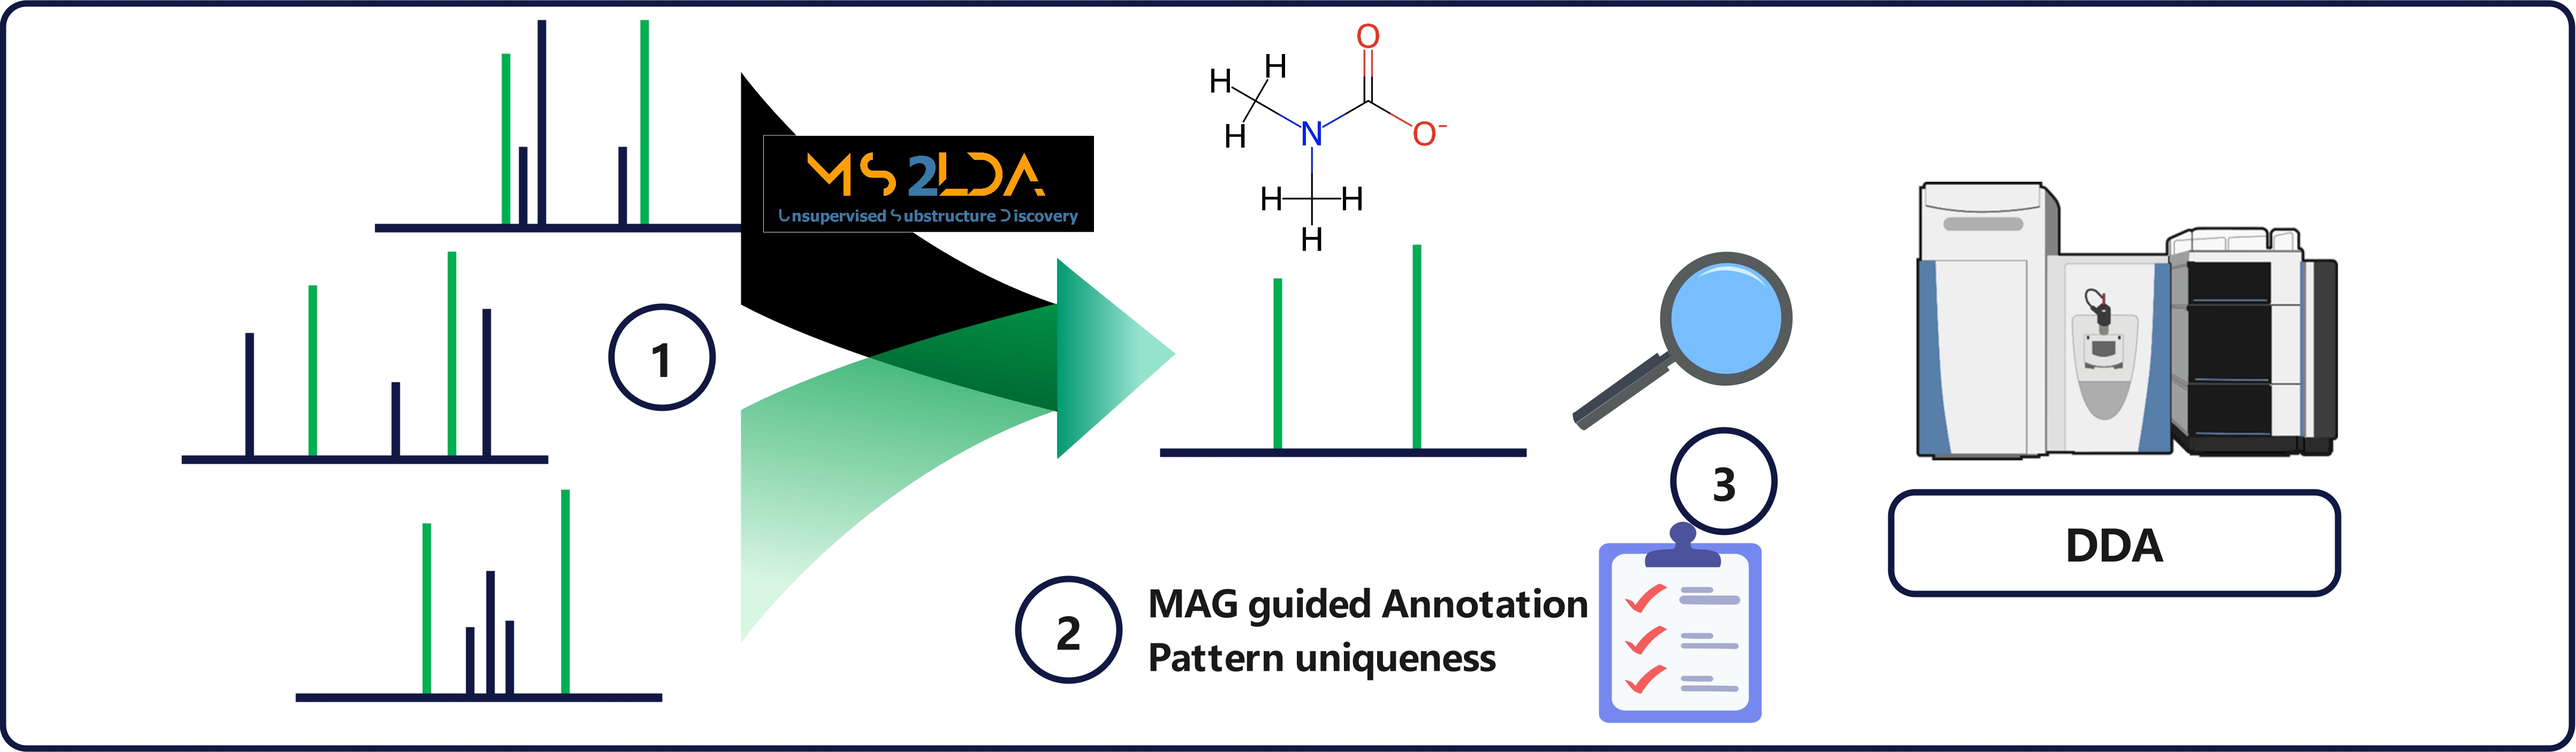
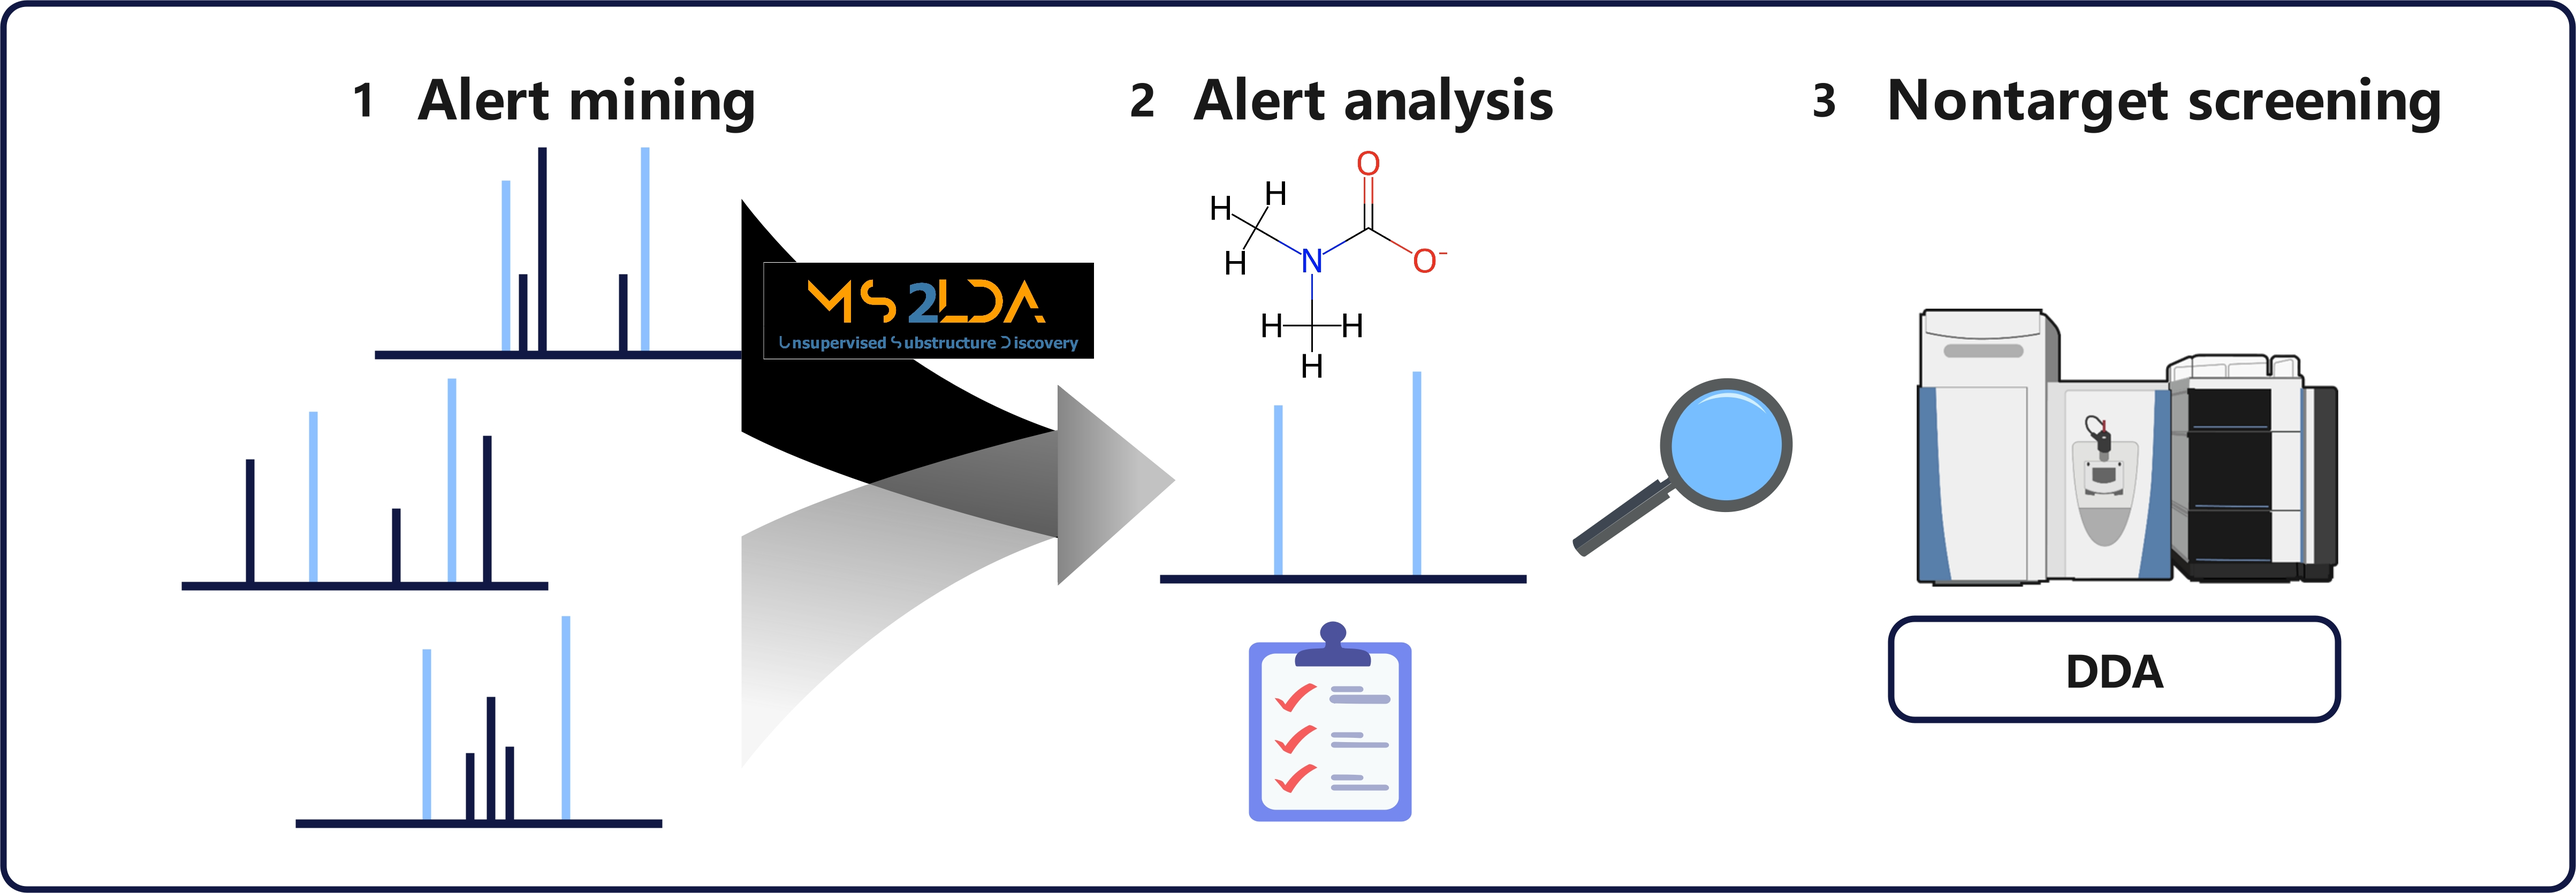
new readme figures + req.txt

diff --git a/README.md b/README.md
@@ -3,7 +3,7 @@
 Spectral Alerts describe MS² fragmentation patterns that can be linked to toxicologically relevant substructures. Think of them as the MS² counterpart of structural alerts 🧩 — but for spectra!
 
 The Spectral Alerts presented here were mined using MS2LDA 2.0 and are intended to be used for nontarget screening workflows for pesticides and contaminantes.
-📄 Read the full publication here
+📄 Read the full publication here (coming soon)
 
 ![](figures/VisualAbstract.jpg) 
 
@@ -11,9 +11,9 @@ The Spectral Alerts presented here were mined using MS2LDA 2.0 and are intended 
 
 ## ✨ Why use Spectral Alerts?
 
-⚡ Fast querying – instantly match alerts in your data
+⚡ Fast querying – instantly match alerts in your samples
 
-🎯 Efficient filtering – reduce your candidate space by up to 98%
+🎯 Efficient filtering – reduce your candidate space by more then 98%
 
 🔍 Easy interpretation – alerts are easy to explain and explore
 
@@ -35,17 +35,19 @@ streamlit run spectral_alerts.py
 
 Your browser will open automatically 🌐
 
-![](figures/SpectralAlertViewerHints.jpg)
+![](figures/SpectralAlertViewer.jpg)
 
 ---
 
 ## 🗂 What do they cover?
 
+Below you can find all 50 Spectral Alerts mined with MS2LDA 2.0. Three Spectral Alerts also contain losses not shown in the figure below. They can be found in the spectral_alert.json file.
 ![](figures/AllAlerts.jpg)
 
 ---
 
 ## 📈 Analysis Results
+The result below show the use of spectral alerts in a nontarget screening procedure on a pesticide spiked tomato sample. This is not the output of the Spectral Alert Viewer! To generate the results below, go to *spectral_alerts_analysis* → *nontarget screening* → *tomato200ppb_NTS.ipynb*.
 
 ![](figures/CaseStudyTomato200ppb.jpg)
 
@@ -53,24 +55,26 @@ Your browser will open automatically 🌐
 
 ## 🔬 How to Mine & Contribute New Alerts
 
+Following the worfklow below, we generated the all available spectral alerts for nontarget screening. 
+
+![](figures/Workflow.jpg)
+
 We welcome contributions!
-Follow this workflow to generate and submit new Spectral Alerts:
+If you want to submit your spectral alerts mined with MS2LDA 2.0:
 
-📦 Prepare your MS² dataset
+📦 Prepare your MS² dataset (if needed consensus spectra or preprocessing)
 
-🧮 Run MS2LDA 2.0 for motif extraction
+🧮 Run MS2LDA 2.0 for motif extraction (can be run multiple times as for this study or once)
 
-🧩 Curate & validate meaningful alerts
+🧩 Curate & validate meaningful alerts (we focus here on pesticides or food related contaminants)
 
-📤 Submit your alerts via Pull Request
-
--workflow figure here (coming soon)-
+📤 Submit your alerts via Pull Request or create an issue
 
 ---
 
-📬 Get in Touch
+## 📬 Get in Touch
 
-💡 Questions, ideas, or contributions? Open an issue or reach out via GitHub Discussions
+💡 Questions, ideas, or contributions? Open an issue.
 
 ---
 
